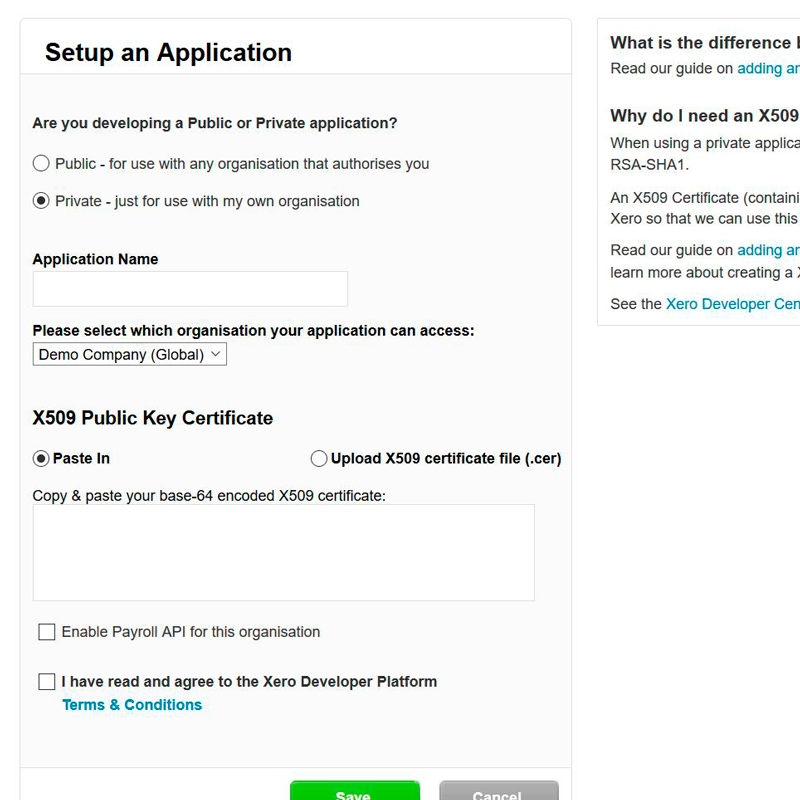
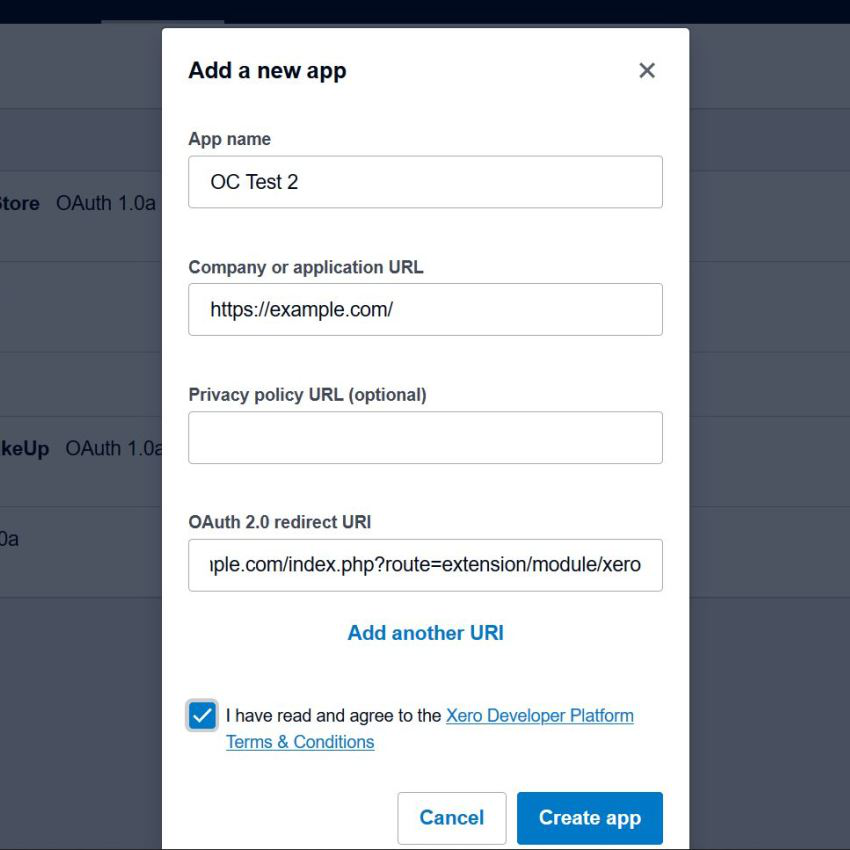
xero docs update

diff --git a/docs/xero_integration.md b/docs/xero_integration.md
@@ -1,7 +1,7 @@
 # Xero Integration
 
-* Current Version: 4.1.2
-* Last Updated: 09 December 2017
+* Current Version: 5.0.0
+* Last Updated: 18 December 2019
 * License: [Commercial License][1]
 * Compatibility: OpenCart 1.5.1.x, 1.5.2.x, 1.5.3.x, 1.5.4.x, 1.5.5.x, 1.5.6.x, 2.x, 3.x
 
@@ -57,34 +57,39 @@ Xero Integration allows you to export your OpenCart orders, customers and produc
 
 	If you do not have an account with Xero, please sign up at https://www.xero.com before proceeding.
 
-2. Getting your Key & Secret
+2. Getting your Client ID & Client Secret
 
-	Generate a new certificate (see point 5 below) or use the certificate included in the zip package of our software. Proceed to https://app.xero.com/Application/ to setup your application.
-
-	1. Add an application.
-	2. Select "Private Application".
-	3. Enter an Application Name (e.g. OpenCart Integration).
-	4. Select an organisation for application to access.
-	5. Upload the certificate file (file is located in our zip folder (`system/library/xero/certs/xero_public.cer`).
-	6. Agree to Xero's terms and conditions.
-	7. Save the application.
-	8. You will now be presented with the consumer key and consumer secret.
+	1. Create an application at https://developer.xero.com/myapps/ by clicking on "New App".
+	2. Enter an App Name (e.g. OpenCart Integration).
+	3. Enter Company or applcation URL. Fill it with your OpenCart URL (with "https") (e.g. https://www.example.com/).
+	4. Enter OAuth 2.0 redirect URI. Fill it with your OpenCart URL (with "https") and append "index.php?route=extension/module/xero/authorise" (for OpenCart 3) or "index.php?route=module/xero/authorise" (for OpenCart 2) (e.g. https://www.example.com/index.php?route=extension/module/xero/authorise).
+	4. Click "Create App" to create the application.
+	5. Click "generate a secret" to generate your client secret.
+	6. Copy your client ID and client secret to our OpenCart extension settings.
 
 	![Screenshot](images/xero_integration/image-2.png)
+    
+3. Authorise Website
 
-3. Setup Cron Job
+    1. Upon saving the settings with your client ID and client secret, you will be presented with an "authorise" button on the same page.
+    2. Click on the "authorise" button. You will be directed to login on Xero's website.
+    3. Click "allow access".
+    4. Select your organisation from the drop down list and click "continue".
+    5. You will be redirected back, and you should see a success message. You can now close the tab and your Xero integration setup is completed.
+
+4. Setup Cron Job
 
 	Setup a cron job task to automate the export. The cron job command is provided in your admin dashboard. Please copy it and setup your cron job task accordingly in your cPanel.
 
-4. Xero Integration Configurations
+5. Xero Integration Configurations
 
-	__API Consumer Key__
+	__Client ID__
 
-	The API Consumer Key is available from your Xero application. This is a required field for authentication.
+	The client ID is available from your Xero application. This is a required field for authentication.
 
-	__API Secret Key__
+	__Client Secret Key__
 
-	The API Secret Key is available from your Xero application. This is a required field for authentication.
+	The Client Secret Key is available from your Xero application. This is a required field for authentication.
 
 	__HTTP Loopback Workaround__
 
@@ -154,43 +159,11 @@ Xero Integration allows you to export your OpenCart orders, customers and produc
 
 	This is useful to debug specific order ID that's having issues being exported. Debug needs to be enabled before this feature will work.
 
-5. Generating Your Certificate (optional)
-
-	If you wish to generate your own certificate, please follow the instructions below.
-
-	__Windows__
-
-	1. Download and extract the zip file ([https://www.dropbox.com/sh/r70yevrfgqh6tjm/FFzIj2YhYj][2]) to your C drive so the path directioy is now C:\openssl\.
-	2. Search for `cmd` on your system and right click >> run as administrator.
-	3. Change directory to the folder C:\openssl\bin\ with the following command:
-		cd C:\openssl\bin
-	4. Run the following commands to generate a certificate. A couple of questions would be asked. Answer them as accurately as possible.
-		
-		> set OPENSSL_CONF=c:\openssl\bin\openssl.cfg
-
-		> openssl genrsa -out xero_private.pem 1024
-
-		> openssl req -newkey rsa:1024 -x509 -key xero_private.pem -out xero_public.cer -days 1095
-
-	5. You should now find the certificate in your C:\openssl\bin\ folder. The 2 files xero_private.pem and xero_public.cer will be what you need.
-	6. Upload the 2 generated files to system/library/xero/certs/.
-
-	__Linux and OS X__
-
-	1. Open `terminal` and navigate to a directory you wish to generate the certificates in.
-	2. Run the following commands to generate a certificate. A couple of questions would be asked. Answer them as accurately as possible.
-
-		> openssl genrsa -out xero_private.pem 1024
-		
-		> openssl req -newkey rsa:1024 -x509 -key xero_private.pem -out xero_public.cer
-
-	3. You should now find the certificate in the directory you have generated in. The 2 files xero_private.pem and xero_public.cer will be what you need.
-	4. Upload the 2 generated files to system/library/xero/certs/.
-
-[2]: https://www.dropbox.com/sh/r70yevrfgqh6tjm/FFzIj2YhYj
-
 ## Change Log
 
+### Version 5.0.0 (18/12/2019)
+* Updated Xero integration to support OAuth 2.0
+* Codes cleanup
 ### Version 4.1.2 (09/12/2017)
 * Minor bug fixes
 ### Version 4.1.1 (19/11/2017)
